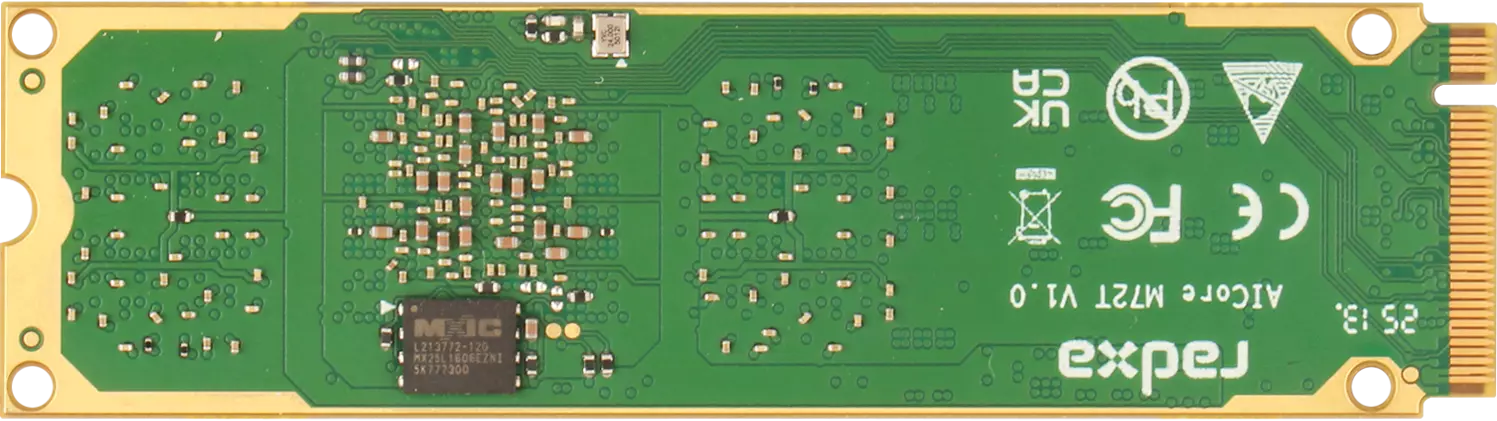
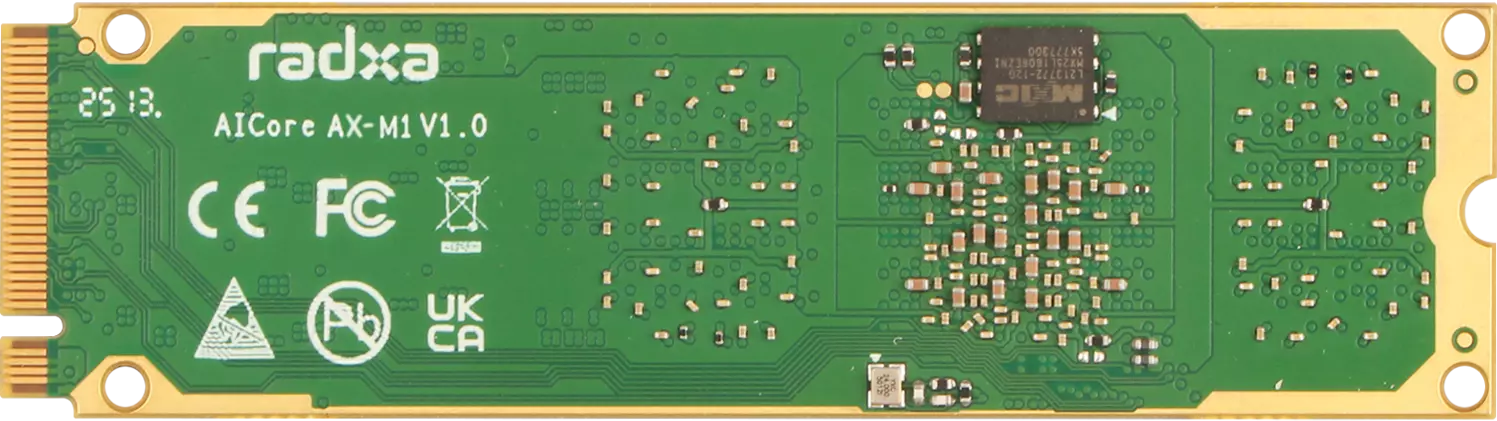
fix: modify ax-m1 picture and add a5e android system link

diff --git a/docs/cubie/a5e/download.md b/docs/cubie/a5e/download.md
@@ -7,9 +7,15 @@ description: "镜像,刷机工具等资料"
 
 ## 操作系统镜像
 
+- Linux 系统镜像
+
 [cubie a5e debian11 xfce image(beta)](https://mega.nz/file/g7AWVBZJ#xkDOIJYHvgUngdKUgW7D_aSaVPifyYZDOG0fUOtgAMk)
 
 [cubie_a5e_bullseye_xfce_beta_v1.rawdisk.img](https://github.com/cubie-image/sun55iw3p1/releases/download/beta_v1/cubie_a5e_bullseye_xfce_beta_v1.rawdisk.img.gz)
+
+- Android 系统镜像
+
+[cubie a5e android13 image](https://mega.nz/file/NjxmXBbT#EaY4bTCNCKTWp8e9r9q2da9EijEovJdlJx_7_xXP-akk)
 
 ## 刷机工具
 

diff --git a/i18n/en/docusaurus-plugin-content-docs/current/aicore/ax-m1/getting-started/README.md b/i18n/en/docusaurus-plugin-content-docs/current/aicore/ax-m1/getting-started/README.md
@@ -12,7 +12,7 @@ This document introduces how to use the Radxa AICore AX-M1 module on the ROCK 5B
    Radxa AICore AX-M1 module front
    <img src="/en/img/aicore-ax-m1/aicore_ax_m1_top.webp" style={{width: '60%', maxWidth: '800px'}} />
    Radxa AICore AX-M1 module back
-    <img src="/en/img/aicore-ax-m1/aicore_ax_m1_bottom.webp" style={{width: '60%', maxWidth: '800px', transform: 'rotate(180deg)'}} />
+    <img src="/en/img/aicore-ax-m1/aicore_ax_m1_bottom.webp" style={{width: '60%', maxWidth: '800px'}} />
 </div>
 
 ## Prerequisites

diff --git a/i18n/en/docusaurus-plugin-content-docs/current/cubie/a5e/download.md b/i18n/en/docusaurus-plugin-content-docs/current/cubie/a5e/download.md
@@ -7,7 +7,15 @@ description: "System,FlashTool and other Resources"
 
 ## System Image
 
+- Linux system image
+
 [debian11 xfce beta image](https://mega.nz/file/g7AWVBZJ#xkDOIJYHvgUngdKUgW7D_aSaVPifyYZDOG0fUOtgAMk)
+
+[cubie_a5e_bullseye_xfce_beta_v1.rawdisk.img](https://github.com/cubie-image/sun55iw3p1/releases/download/beta_v1/cubie_a5e_bullseye_xfce_beta_v1.rawdisk.img.gz)
+
+- Android system image
+
+[cubie a5e android13 image](https://mega.nz/file/NjxmXBbT#EaY4bTCNCKTWp8e9r9q2da9EijEovJdlJx_7_xXP-akk)
 
 ## Flashing Tools
 

diff --git a/i18n/en/docusaurus-plugin-content-docs/current/aicore/ax-m1/README.md b/i18n/en/docusaurus-plugin-content-docs/current/aicore/ax-m1/README.md
@@ -33,7 +33,7 @@ sidebar_position: 1
    Radxa AICore AX-M1 Module (Front)
    <img src="/en/img/aicore-ax-m1/aicore_ax_m1_top.webp" style={{width: '60%', maxWidth: '800px'}} />
    Radxa AICore AX-M1 Module (Back)
-    <img src="/en/img/aicore-ax-m1/aicore_ax_m1_bottom.webp" style={{width: '60%', maxWidth: '800px', transform: 'rotate(180deg)'}} />
+    <img src="/en/img/aicore-ax-m1/aicore_ax_m1_bottom.webp" style={{width: '60%', maxWidth: '800px'}} />
 </div>
 
 ## Specifications

diff --git a/docs/aicore/ax-m1/README.md b/docs/aicore/ax-m1/README.md
@@ -33,7 +33,7 @@ sidebar_position: 1
    瑞莎智核 AX-M1 模块正面
    <img src="/img/aicore-ax-m1/aicore_ax_m1_top.webp" style={{width: '60%', maxWidth: '800px'}} />
    瑞莎智核 AX-M1 模块背面
-    <img src="/img/aicore-ax-m1/aicore_ax_m1_bottom.webp" style={{width: '60%', maxWidth: '800px', transform: 'rotate(180deg)'}} />
+    <img src="/img/aicore-ax-m1/aicore_ax_m1_bottom.webp" style={{width: '60%', maxWidth: '800px'}} />
 </div>
 
 ## 产品规格

diff --git a/docs/aicore/ax-m1/getting-started/README.md b/docs/aicore/ax-m1/getting-started/README.md
@@ -12,7 +12,7 @@ sidebar_position: 1
    瑞莎智核 AX-M1 模块正面
    <img src="/img/aicore-ax-m1/aicore_ax_m1_top.webp" style={{width: '60%', maxWidth: '800px'}} />
    瑞莎智核 AX-M1 模块背面
-    <img src="/img/aicore-ax-m1/aicore_ax_m1_bottom.webp" style={{width: '60%', maxWidth: '800px', transform: 'rotate(180deg)'}} />
+    <img src="/img/aicore-ax-m1/aicore_ax_m1_bottom.webp" style={{width: '60%', maxWidth: '800px'}} />
 </div>
 
 ## 使用前提

diff --git a/i18n/en/docusaurus-plugin-content-docs/current/aicore/ax-m1/download.md b/i18n/en/docusaurus-plugin-content-docs/current/aicore/ax-m1/download.md
@@ -6,7 +6,7 @@ sidebar_position: 15
 
 ## AXCL Driver Package
 
-- [AXCL Driver Package](https://dl.radxa.com/aicore/ax_m1/axcl_host_aarch64_V3.0.2_20250326020141_NO4723.deb)
+- ARM64（AArch64）：[AXCL Driver Package](https://dl.radxa.com/aicore/ax_m1/axcl_host_aarch64_V3.0.2_20250326020141_NO4723.deb)
 
 ## Reference Documentation
 

diff --git a/docs/aicore/ax-m1/download.md b/docs/aicore/ax-m1/download.md
@@ -6,7 +6,7 @@ sidebar_position: 15
 
 ## AXCL 驱动包
 
-- [AXCL 驱动包](https://dl.radxa.com/aicore/ax_m1/axcl_host_aarch64_V3.0.2_20250326020141_NO4723.deb)
+- ARM64（AArch64）：[AXCL 驱动包](https://dl.radxa.com/aicore/ax_m1/axcl_host_aarch64_V3.0.2_20250326020141_NO4723.deb)
 
 ## 参考文档
 
